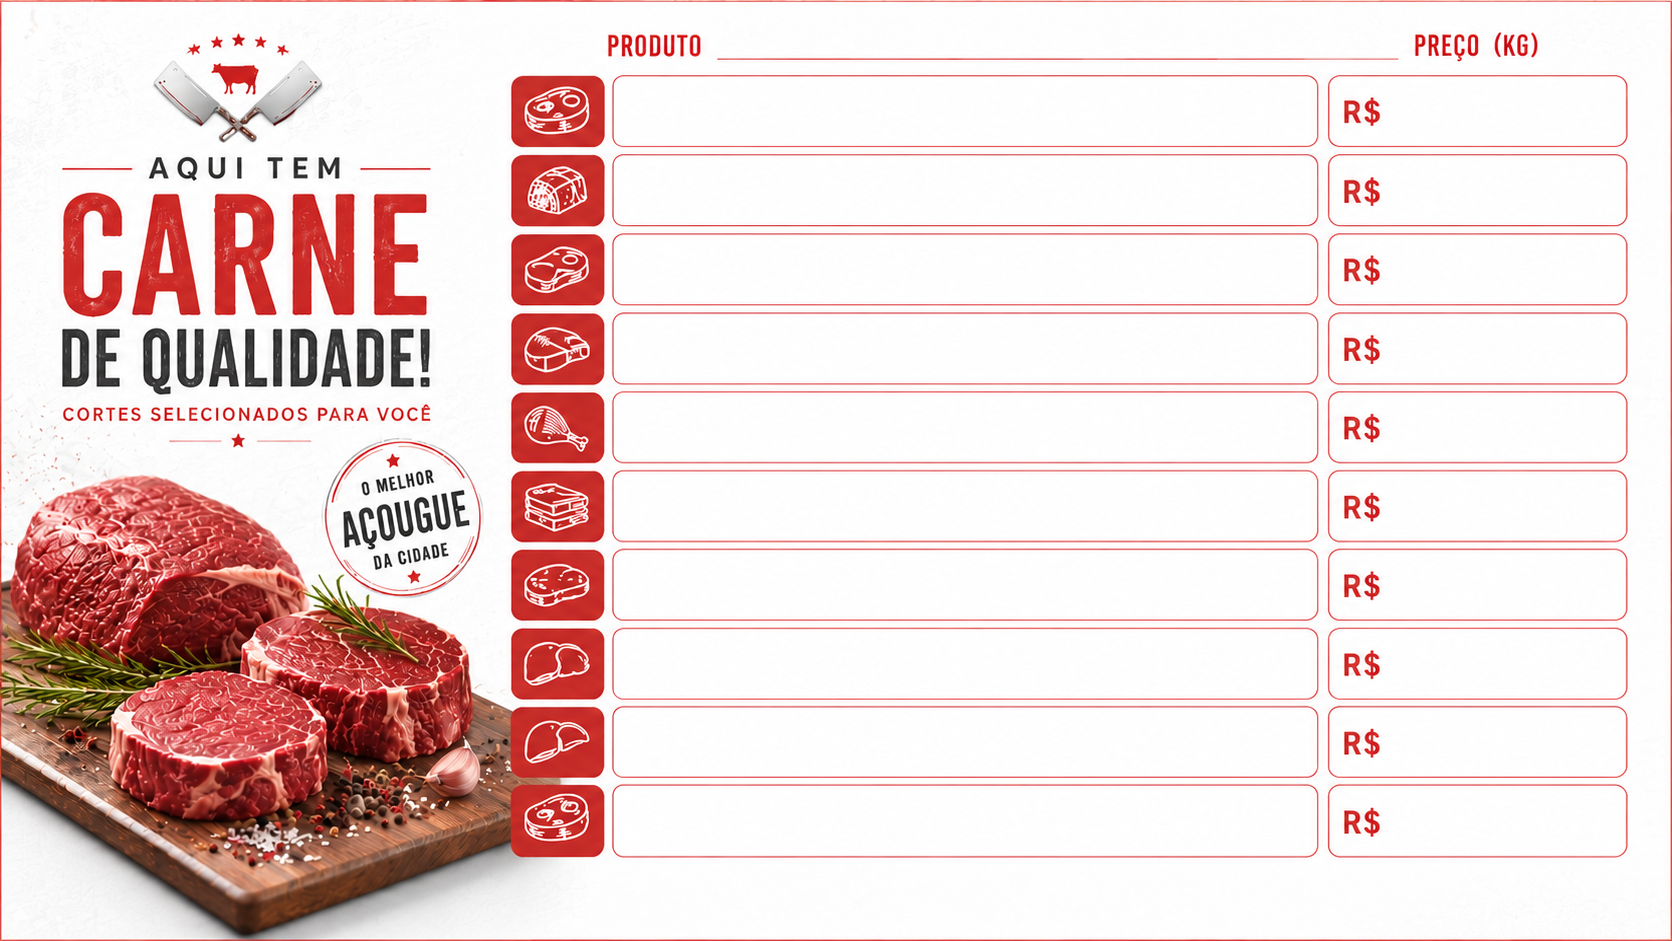
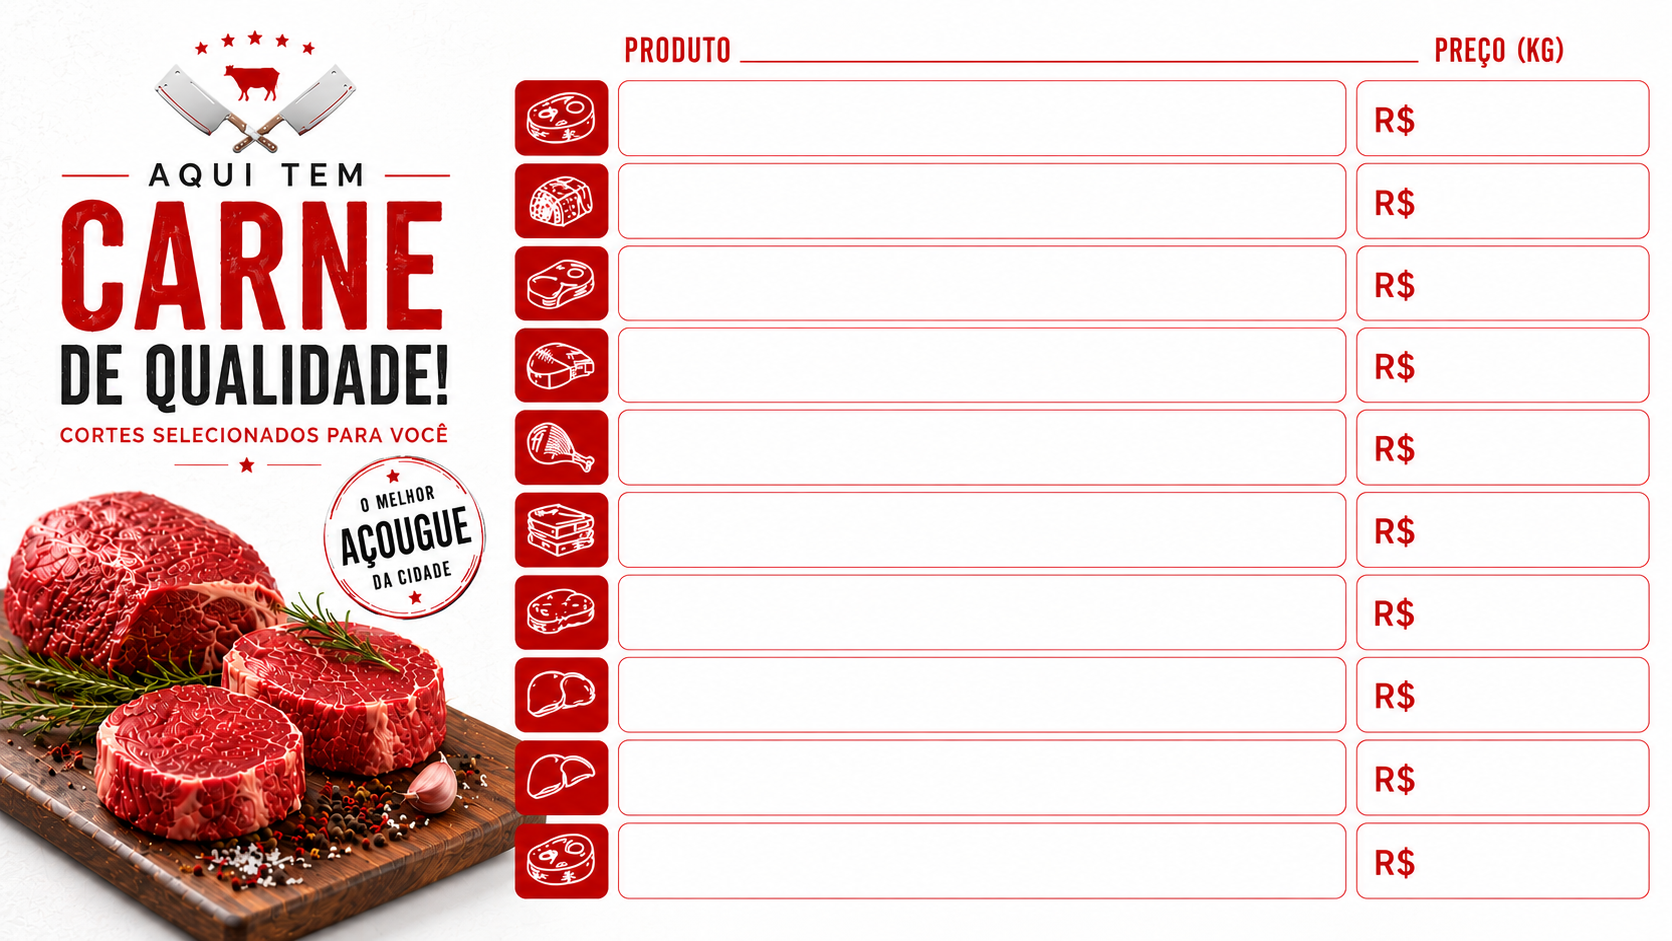
Melhorando a responsividade das telas de preço, e otimizando a navegação pelo projeto

Changed region(s): [[0.0, 0.0, 1.0, 1.0], [0.0, 0.0, 0.0311, 0.0308]]

diff --git a/resources/css/tv.css b/resources/css/tv.css
@@ -7,7 +7,7 @@
 }
 
 
-/* TELA */
+/* BODY */
 
 body{
 
@@ -19,7 +19,7 @@ body{
 }
 
 
-/* CONTAINER PRINCIPAL */
+/* TELA */
 
 .tela{
 
@@ -33,7 +33,7 @@ body{
 }
 
 
-/* IMAGEM DE FUNDO */
+/* BACKGROUND */
 
 .background{
 
@@ -55,7 +55,7 @@ body{
 }
 
 
-/* CAMADA PRODUTOS */
+/* PRODUTOS */
 
 .produtos{
 
@@ -79,10 +79,6 @@ body{
 
     position:absolute;
 
-    width:58%;
-
-    right:3%;
-
     display:flex;
 
     justify-content:space-between;
@@ -91,13 +87,57 @@ body{
 }
 
 
+/* ========================= */
+/* DARK */
+/* ========================= */
+
+body[data-theme="dark"] .linha{
+
+    width:58%;
+
+    right:3%;
+}
+
+body[data-theme="dark"] .linha-1{ top:9.9%; }
+body[data-theme="dark"] .linha-2{ top:18.5%; }
+body[data-theme="dark"] .linha-3{ top:26.9%; }
+body[data-theme="dark"] .linha-4{ top:35.5%; }
+body[data-theme="dark"] .linha-5{ top:43.99%; }
+body[data-theme="dark"] .linha-6{ top:52.4%; }
+body[data-theme="dark"] .linha-7{ top:60.8%; }
+body[data-theme="dark"] .linha-8{ top:69%; }
+body[data-theme="dark"] .linha-9{ top:77.6%; }
+body[data-theme="dark"] .linha-10{ top:85.99%; }
+
+
+/* ========================= */
+/* LIGHT */
+/* ========================= */
+
+body[data-theme="light"] .linha{
+
+    width:58.2%;
+
+    right:2.8%;
+}
+
+body[data-theme="light"] .linha-1{ top:10.7%; }
+body[data-theme="light"] .linha-2{ top:19.4%; }
+body[data-theme="light"] .linha-3{ top:28.2%; }
+body[data-theme="light"] .linha-4{ top:36.99%; }
+body[data-theme="light"] .linha-5{ top:45.7%; }
+body[data-theme="light"] .linha-6{ top:54.4%; }
+body[data-theme="light"] .linha-7{ top:63.3%; }
+body[data-theme="light"] .linha-8{ top:72%; }
+body[data-theme="light"] .linha-9{ top:80.9%; }
+body[data-theme="light"] .linha-10{ top:89.6%; }
+
+
 /* NOME */
 
 .nome{
 
     width:72%;
-
-    color:white;
 
     font-weight:700;
 
@@ -115,19 +155,39 @@ body{
 
 .preco{
 
-    width:18%;
-
-    color:white;
+    width:22%;
 
     font-weight:bold;
 
-    margin-right:5%;
+    margin-right:1%;
 
     text-align:center;
 
     line-height:1;
 
-    font-size:clamp(18px, 2.2vw, 46px);
+    font-size:clamp(22px, 2.6vw, 56px);
+}
+
+
+/* CORES DARK */
+
+body[data-theme="dark"] .nome{
+    color:white;
+}
+
+body[data-theme="dark"] .preco{
+    color:white;
+}
+
+
+/* CORES LIGHT */
+
+body[data-theme="light"] .nome{
+    color:#111827;
+}
+
+body[data-theme="light"] .preco{
+    color:#111827;
 }
 
 
@@ -135,7 +195,7 @@ body{
 
 .oferta{
 
-    color:#ff4d4d;
+    color:#ef4444;
 
     font-size:.75em;
 
@@ -145,21 +205,7 @@ body{
 }
 
 
-/* POSIÇÕES */
-
-.linha-1{ top:9.5%; }
-.linha-2{ top:17.9%; }
-.linha-3{ top:26.23%; }
-.linha-4{ top:34.5%; }
-.linha-5{ top:42.9%; }
-.linha-6{ top:51.3%; }
-.linha-7{ top:59.6%; }
-.linha-8{ top:68.1%; }
-.linha-9{ top:76.4%; }
-.linha-10{ top:84.6%; }
-
-
-/* BOTÃO VOLTAR */
+/* BOTÃO */
 
 .botao-voltar{
 
@@ -183,24 +229,41 @@ body{
 
     border-radius:18px;
 
-    background:rgba(0,0,0,.35);
-
-    backdrop-filter:blur(10px);
-
-    color:white;
-
     text-decoration:none;
 
     transition:.2s;
 
-    border:1px solid rgba(255,255,255,.08);
+    backdrop-filter:blur(10px);
 }
+
+
+/* DARK */
+
+body[data-theme="dark"] .botao-voltar{
+
+    background:rgba(0,0,0,.35);
+
+    border:1px solid rgba(255,255,255,.08);
+
+    color:white;
+}
+
+
+/* LIGHT */
+
+body[data-theme="light"] .botao-voltar{
+
+    background:rgba(255,255,255,.75);
+
+    border:1px solid rgba(0,0,0,.08);
+
+    color:#111827;
+}
+
 
 .botao-voltar:hover{
 
     transform:translateY(-2px);
-
-    background:rgba(0,0,0,.55);
 }
 
 .botao-voltar .material-symbols-outlined{
@@ -212,13 +275,6 @@ body{
 /* RESPONSIVO */
 
 @media (max-width:1366px){
-
-    .linha{
-
-        width:60%;
-
-        right:2%;
-    }
 
     .nome{
 

diff --git a/resources/views/tv/acougue.blade.php b/resources/views/tv/acougue.blade.php
@@ -14,7 +14,7 @@
     <link
         rel="stylesheet"
         href="https://fonts.googleapis.com/css2?family=Material+Symbols+Outlined"
-    />
+    >
 
     <script>
 
@@ -30,26 +30,27 @@
 
 <div class="tela">
 
+    <!-- IMAGEM -->
+
     <img
         id="background-tv"
         src="/assets/img/tab.preco-acougue.png"
         class="background"
     >
 
-
     <!-- BOTÃO VOLTAR -->
 
-    <a
+        <a  
         href="/admin/produtos"
         class="botao-voltar"
-    >
+        target="admin"
+        >
 
         <span class="material-symbols-outlined">
             arrow_circle_left
         </span>
 
     </a>
-
 
 
     <!-- PRODUTOS -->
@@ -74,11 +75,8 @@
 
                 </div>
 
-
                 <div class="preco">
-
                     {{ number_format($produto->preco, 2, ',', '.') }}
-
                 </div>
 
             </div>
@@ -90,19 +88,21 @@
 </div>
 
 
-
 <script>
 
     const tema = localStorage.getItem('tema');
 
     const imagem = document.getElementById('background-tv');
 
-
     if(tema === 'light'){
+
+        document.body.setAttribute('data-theme', 'light');
 
         imagem.src = '/assets/img/tab.preco-acougue-white.png';
 
     }else{
+
+        document.body.setAttribute('data-theme', 'dark');
 
         imagem.src = '/assets/img/tab.preco-acougue.png';
 

diff --git a/resources/views/admin/produtos.blade.php b/resources/views/admin/produtos.blade.php
@@ -43,9 +43,9 @@
         <div class="acoes-topo">
 
             <a
-                href="/tv/acougue"
-                class="botao-tv"
-                target="_blank"
+            href="/tv/acougue"
+            class="botao-tv"
+            target="tvscreen"
             >
                 Abrir Tela TV
             </a>
